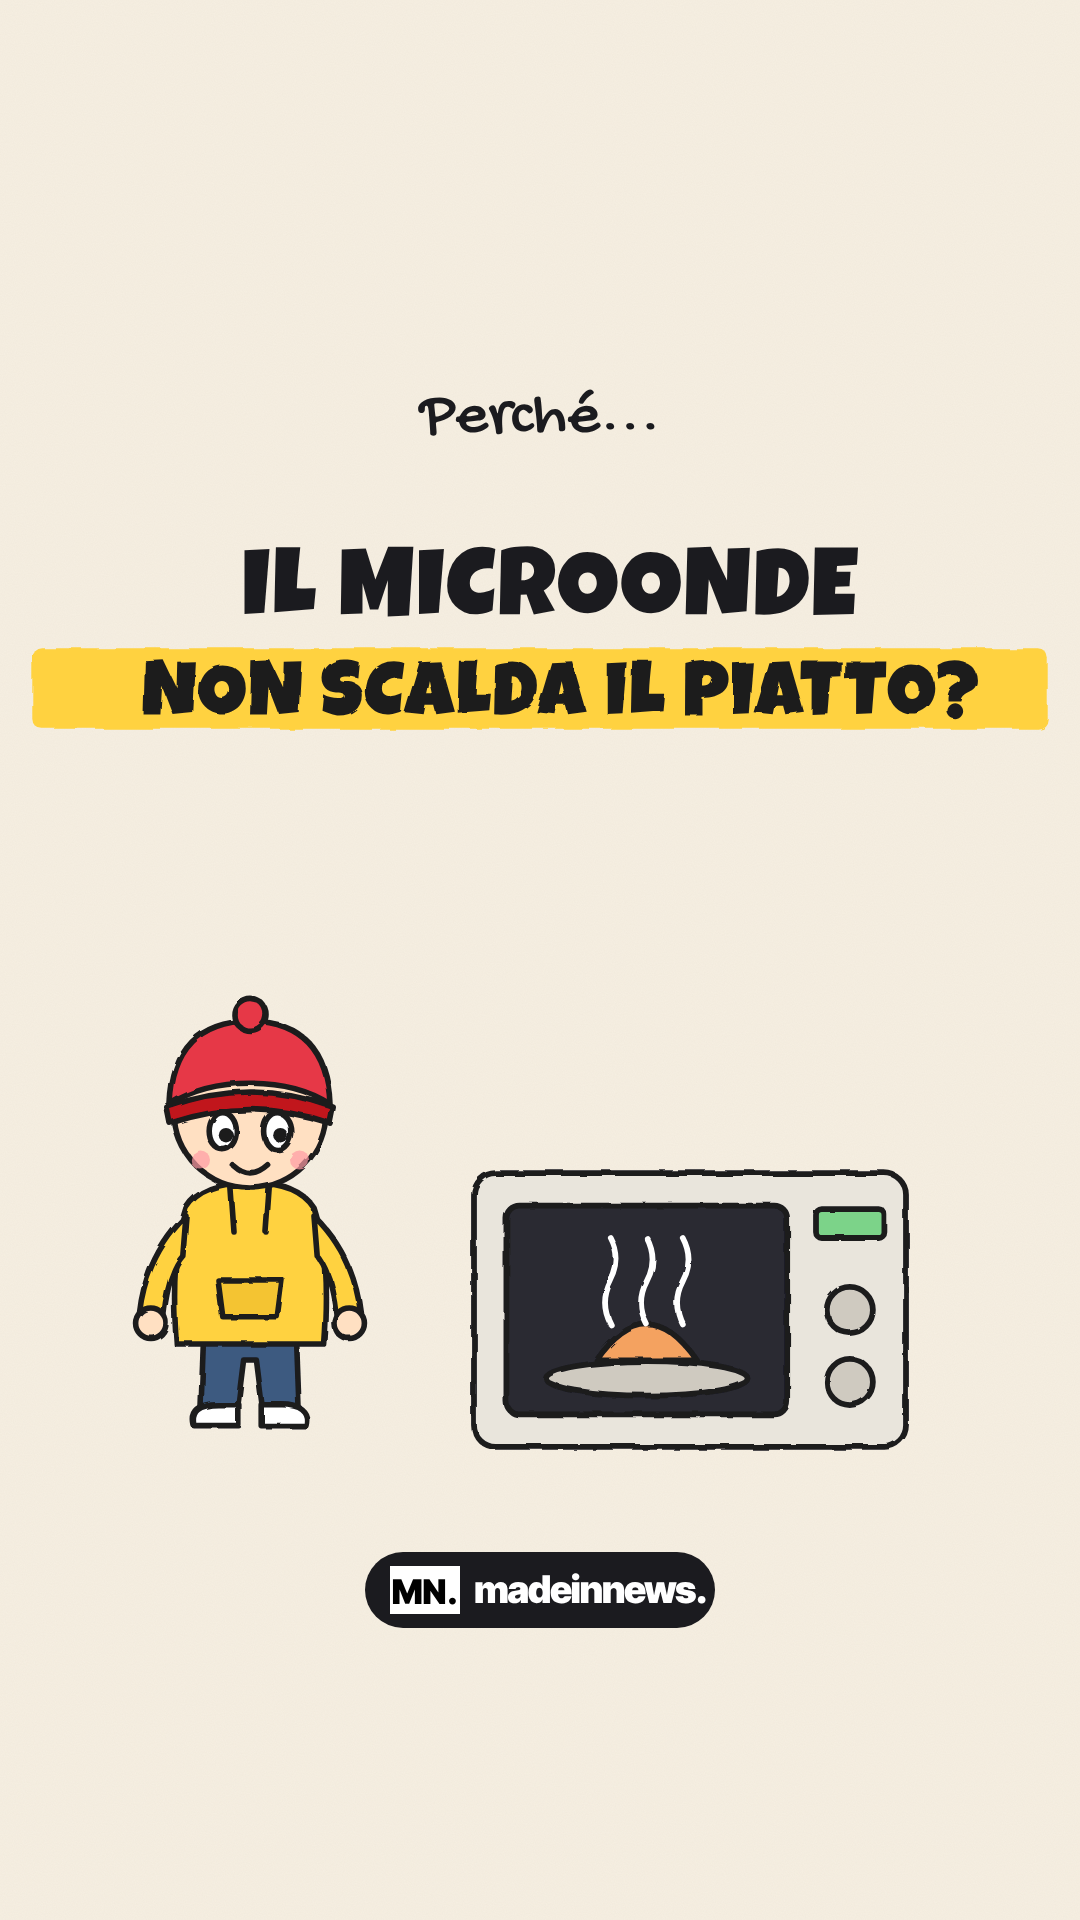
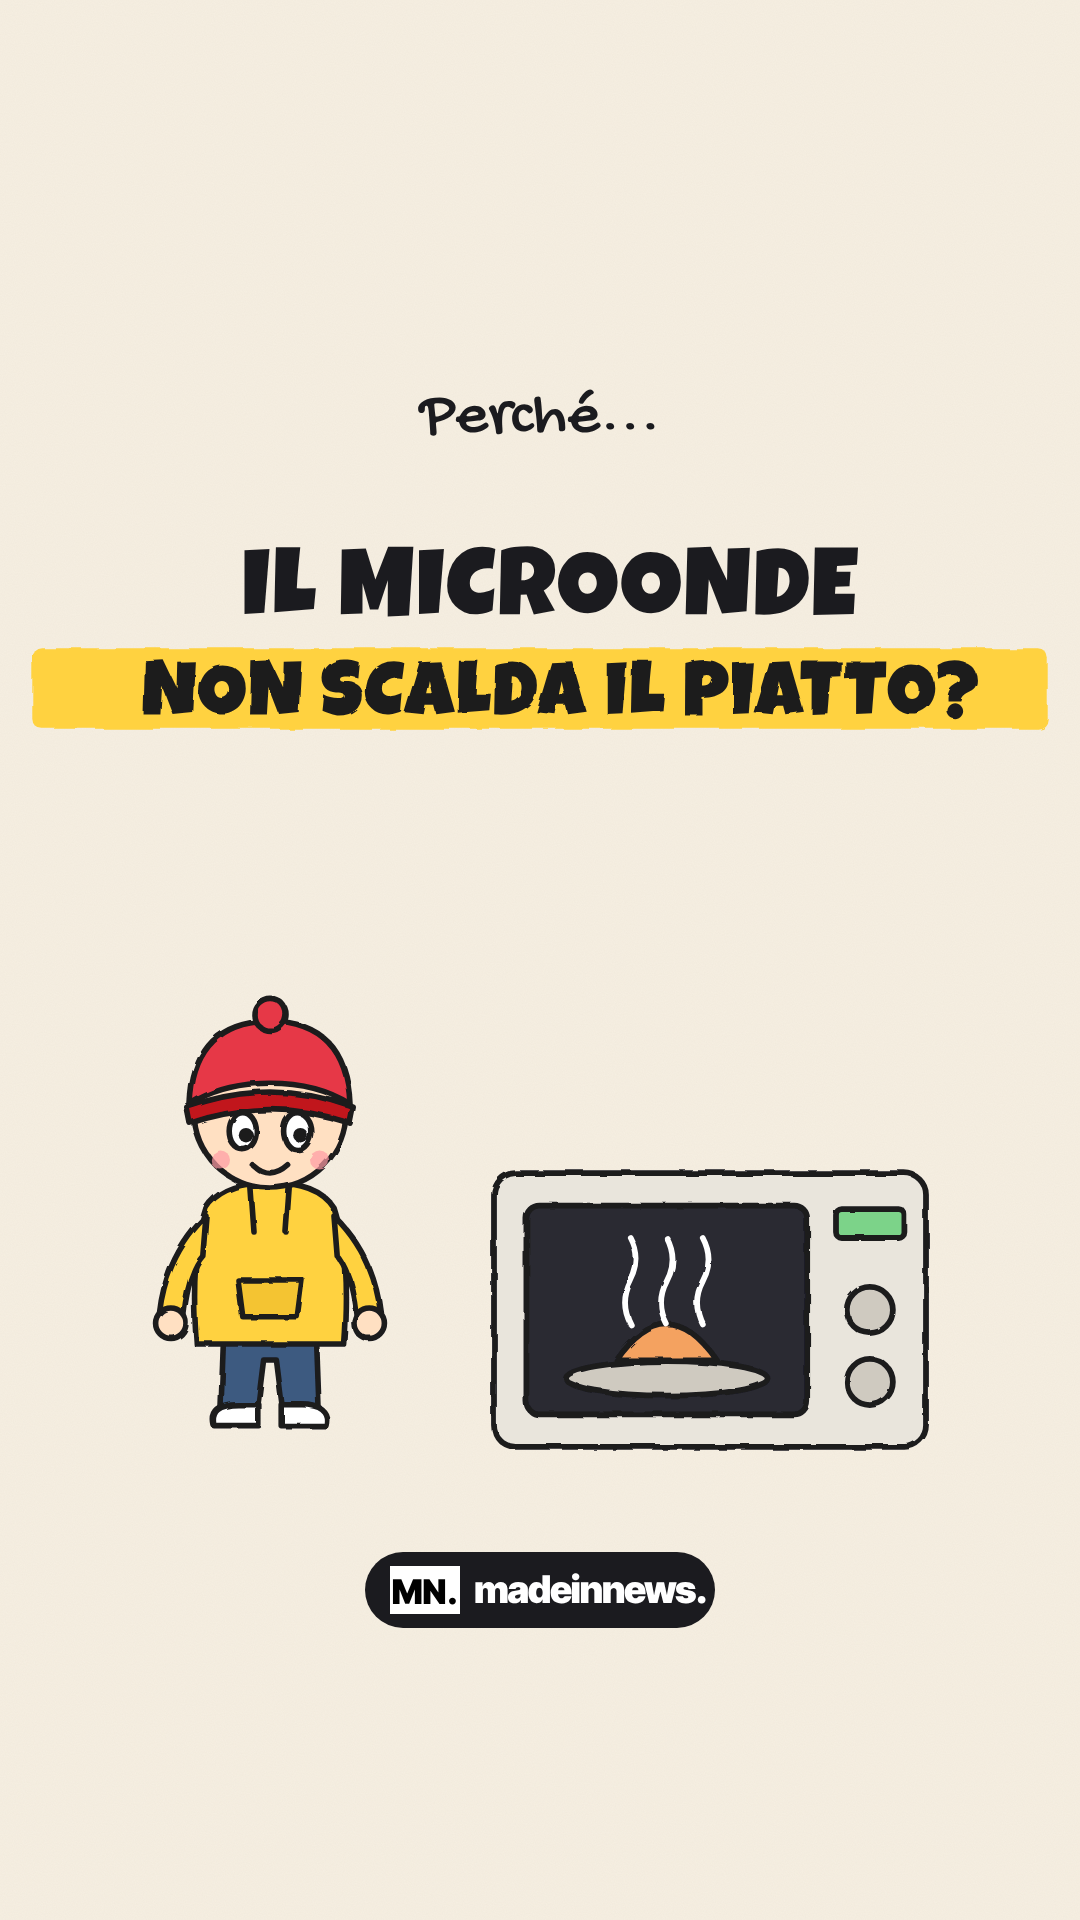
Prova stile disegno: centratura

diff --git a/engine/cover_disegno.js b/engine/cover_disegno.js
@@ -38,4 +38,4 @@ const logo=`<g transform="translate(540,1590)"><rect x="-175" y="-38" width="350
 const cover=(t1,t2,size,art)=>defs+bg+small('Perché...')+title(t1,size)+mark(t2,size*0.8,620+size*0.95)+art+logo;
 module.exports={
  gta: cover('SI CHIAMA','GTA?',150, car(700,1350,0.95)+nino(270,1150,0.85,'point')),
- micro: cover('IL MICROONDE','NON SCALDA IL PIATTO?',96, mw(690,1310,0.72)+nino(250,1160,0.8,'wave'))};
+ micro: cover('IL MICROONDE','NON SCALDA IL PIATTO?',96, mw(710,1310,0.72)+nino(270,1160,0.8,'wave'))};
